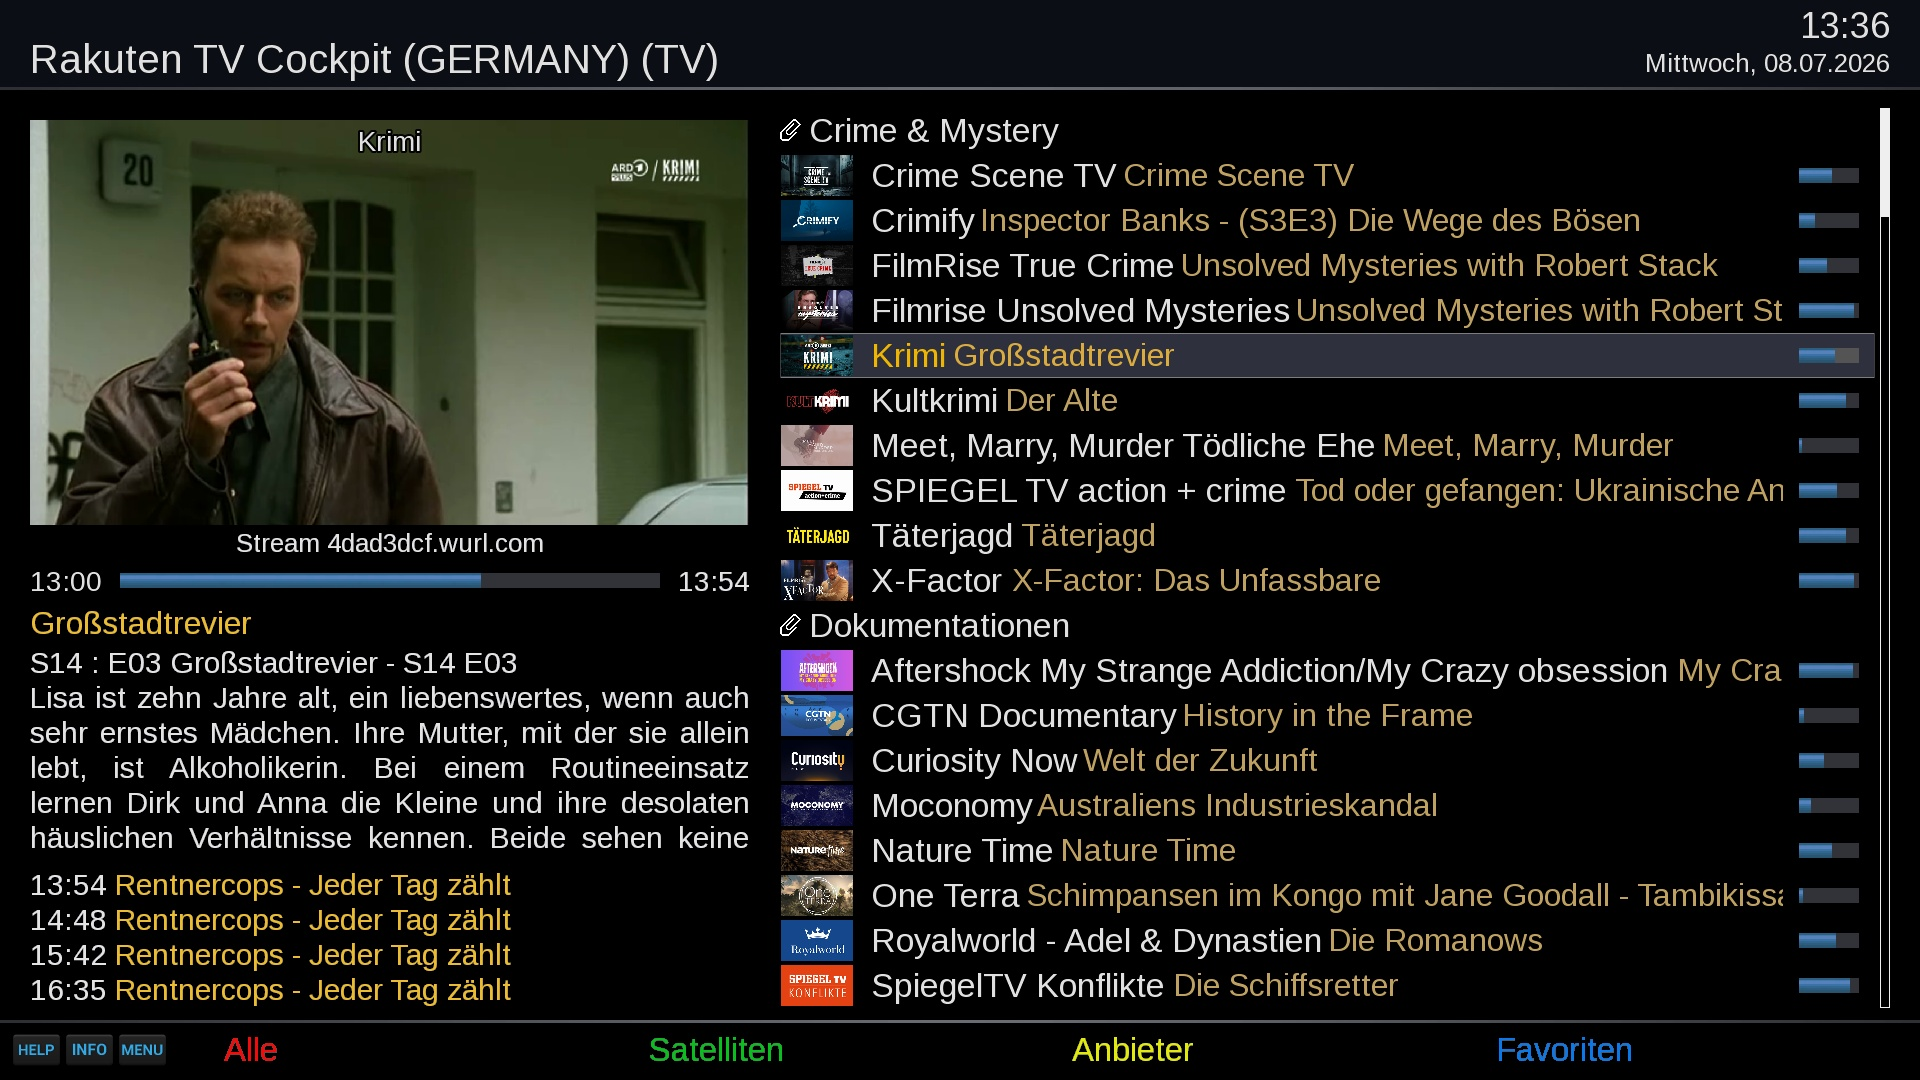
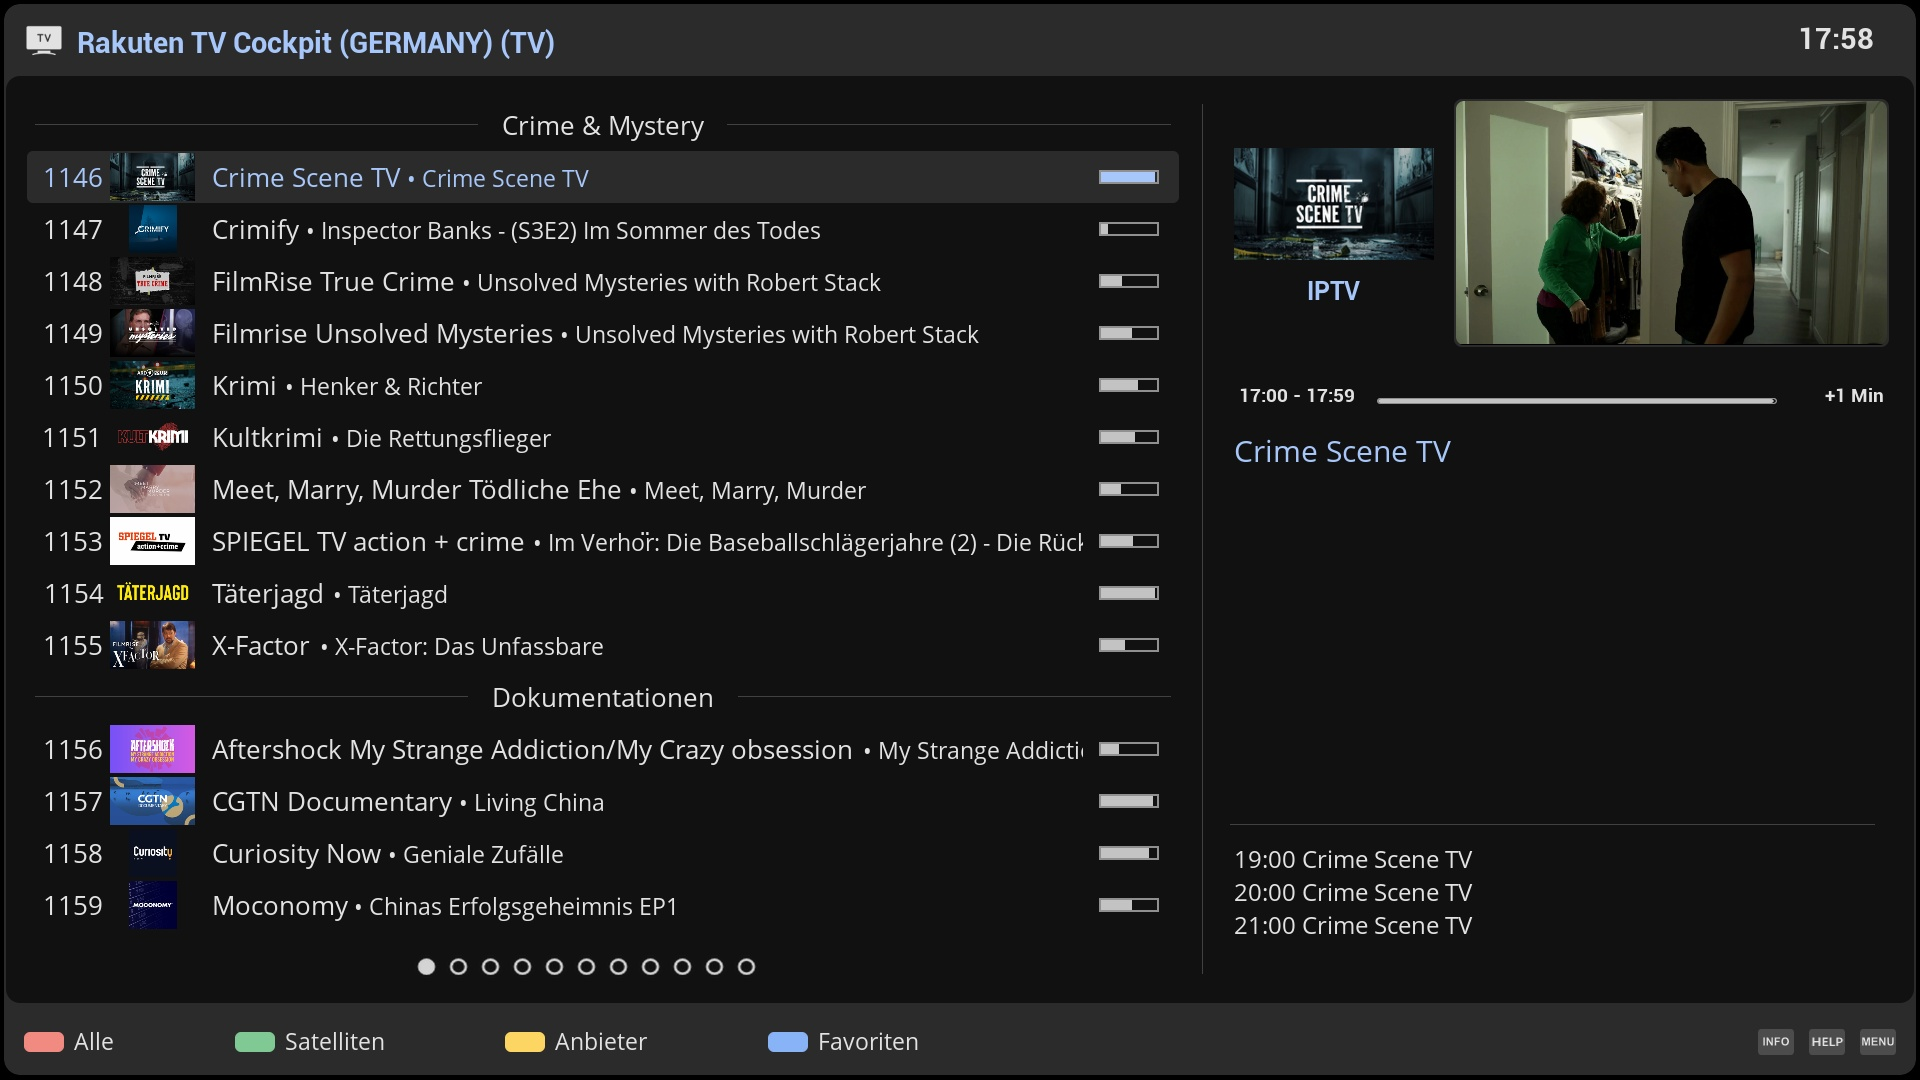
0.25.3

diff --git a/src/RakutenTVSetup.py b/src/RakutenTVSetup.py
@@ -37,29 +37,29 @@ class RakutenTVSetup(Setup):
 
     def createSetup(self):
         configList = []
-        configList.append((_("Region"), config.plugins.rakutentv.region, _("Select the region for the channel list.")))
+        configList.append((_("Region"), config.plugins.rakutentvcockpit.region, _("Select the region for the channel list.")))
         configList.append(("---",))
         for n in range(1, NUMBER_OF_LIVETV_BOUQUETS + 1):
-            if n == 1 or getattr(config.plugins.rakutentv, "live_tv_region" + str(n - 1)).value:
-                configList.append((_("Live-TV bouquet %s") % n, getattr(config.plugins.rakutentv, "live_tv_region" + str(n)), _("Region for which Live-TV bouquet %s will be created.") % n))
+            if n == 1 or getattr(config.plugins.rakutentvcockpit, "live_tv_region" + str(n - 1)).value:
+                configList.append((_("Live-TV bouquet %s") % n, getattr(config.plugins.rakutentvcockpit, "live_tv_region" + str(n)), _("Region for which Live-TV bouquet %s will be created.") % n))
         configList.append(("---",))
-        configList.append((_("Picon type"), config.plugins.rakutentv.picons, _("Using service name picons means they will continue to work even if the service reference changes.")))
-        configList.append((_("Automatic update check"), config.plugins.rakutentv.auto_update_check, _("Automatically check for a newer package update when the plugin GUI is opened.")))
-        configList.append((_("Data location"), config.plugins.rakutentv.config_folder, _("Location the configuration data are stored in.")))
-        configList.append((_("Stream proxy"), config.plugins.rakutentv.stream_proxy, _("Play and record through StreamProxyCockpit, which keeps the ad breaks of the streams from disturbing playback and recordings. Off: the bouquet holds the real stream addresses. The bouquet of each setting is kept, so changing it switches between them; one that doesn't exist yet, or is older than 5 hours, is generated.")))
+        configList.append((_("Picon type"), config.plugins.rakutentvcockpit.picons, _("Using service name picons means they will continue to work even if the service reference changes.")))
+        configList.append((_("Automatic update check"), config.plugins.rakutentvcockpit.auto_update_check, _("Automatically check for a newer package update when the plugin GUI is opened.")))
+        configList.append((_("Data location"), config.plugins.rakutentvcockpit.config_folder, _("Location the configuration data are stored in.")))
+        configList.append((_("Stream proxy"), config.plugins.rakutentvcockpit.stream_proxy, _("Play and record through StreamProxyCockpit, which keeps the ad breaks of the streams from disturbing playback and recordings. Off: the bouquet holds the real stream addresses. The bouquet of each setting is kept, so changing it switches between them; one that doesn't exist yet, or is older than 5 hours, is generated.")))
         configList.append((_("Log level"), config.plugins.rakutentvcockpit.debug_log_level, _("Select the level for debug logging.")))
         self["config"].list = configList
 
     def _locationConfigChanged(self):
-        if config.plugins.rakutentv.region.isChanged():
+        if config.plugins.rakutentvcockpit.region.isChanged():
             return True
-        return any(getattr(config.plugins.rakutentv, "live_tv_region" + str(n)).isChanged() for n in range(1, NUMBER_OF_LIVETV_BOUQUETS + 1))
+        return any(getattr(config.plugins.rakutentvcockpit, "live_tv_region" + str(n)).isChanged() for n in range(1, NUMBER_OF_LIVETV_BOUQUETS + 1))
 
     def keySave(self):
         if self._locationConfigChanged():
             # generates the bouquets for the current "Stream proxy" setting as well
             self.session.openWithCallback(lambda *_: Setup.keySave(self), RakutenTVDownload)
-        elif config.plugins.rakutentv.stream_proxy.isChanged():
+        elif config.plugins.rakutentvcockpit.stream_proxy.isChanged():
             # the locations without a stored bouquet are generated on top of the setup, like above
             missing = Silent.switchBouquetVariants()
             if missing:
@@ -70,7 +70,7 @@ class RakutenTVSetup(Setup):
             Setup.keySave(self)
 
     def updateYellowButton(self):
-        if os.path.isdir(PiconFetcher(config.plugins.rakutentv.picons).pluginPiconDir):
+        if os.path.isdir(PiconFetcher(config.plugins.rakutentvcockpit.picons).pluginPiconDir):
             self["key_yellow"].text = _("Remove picons")
         else:
             self["key_yellow"].text = ""
@@ -85,7 +85,7 @@ class RakutenTVSetup(Setup):
 
     def yellow(self):
         if self["key_yellow"].text:
-            PiconFetcher(config.plugins.rakutentv.picons).removeall()
+            PiconFetcher(config.plugins.rakutentvcockpit.picons).removeall()
             self.updateYellowButton()
 
     def blue(self):

diff --git a/src/RakutenTVRequest.py b/src/RakutenTVRequest.py
@@ -55,7 +55,7 @@ class RakutenTVRequest(FailureTracker):
 
     def getLiveChannels(self, region=None):
         """Fetch live channels from Rakuten TV API. Returns list of channel dicts."""
-        region = region or config.plugins.rakutentv.region.value
+        region = region or config.plugins.rakutentvcockpit.region.value
         now = time.time()
         if region in self._channels_cache and now - self._channels_cache_time.get(region, 0) < 4 * 3600:
             return self._channels_cache[region]
@@ -87,7 +87,7 @@ class RakutenTVRequest(FailureTracker):
 
     def getLiveChannelCategories(self, region=None):
         """Fetch channel categories from Rakuten TV API."""
-        region = region or config.plugins.rakutentv.region.value
+        region = region or config.plugins.rakutentvcockpit.region.value
         now = time.time()
         if region in self._categories_cache and now - self._categories_cache_time.get(region, 0) < 4 * 3600:
             return self._categories_cache[region]
@@ -109,7 +109,7 @@ class RakutenTVRequest(FailureTracker):
 
     def getLiveStreamURL(self, channel_id, language_id, region=None):
         """Get HLS stream URL for a live channel via the AVOD streaming endpoint."""
-        region = region or config.plugins.rakutentv.region.value
+        region = region or config.plugins.rakutentvcockpit.region.value
         params = self._get_base_params(region)
         params.update({
             "device_stream_audio_quality": "2.0",
@@ -147,7 +147,7 @@ class RakutenTVRequest(FailureTracker):
     def getChannels(self, region=None):
         """Get channels in a unified format (compatible with bouquet building).
         Returns list of channel dicts with _id, name, number, category, description, logo, stream_url, language_id."""
-        region = region or config.plugins.rakutentv.region.value
+        region = region or config.plugins.rakutentvcockpit.region.value
         raw_channels = self.getLiveChannels(region)
         categories_raw = self.getLiveChannelCategories(region)
 
@@ -202,7 +202,7 @@ class RakutenTVRequest(FailureTracker):
 
     def getLiveCategories(self, region=None):
         """Get live channels grouped by category for the plugin browser UI."""
-        region = region or config.plugins.rakutentv.region.value
+        region = region or config.plugins.rakutentvcockpit.region.value
         channels = self.getChannels(region)
         if not channels:
             return []
@@ -232,7 +232,7 @@ class RakutenTVRequest(FailureTracker):
 
     def buildStreamURL(self, channel_id, region=None):
         """Resolve the actual HLS stream URL for a channel."""
-        region = region or config.plugins.rakutentv.region.value
+        region = region or config.plugins.rakutentvcockpit.region.value
         channels = self.getChannels(region)
         for ch in channels:
             if ch["_id"] == channel_id:
@@ -244,7 +244,7 @@ class RakutenTVRequest(FailureTracker):
 
         The real stream address is not looked up here but by the proxy, on one of its own threads, the first time
         the channel is used (and again when it no longer works): this runs on the main thread while Enigma2 zaps."""
-        region = region or config.plugins.rakutentv.region.value
+        region = region or config.plugins.rakutentvcockpit.region.value
         return StreamProxy.registerChannel(self.SCHEME, channel_id, url_refresher=lambda: self.buildStreamURL(channel_id, region),
                                            refresh_on_failure=True)
 
@@ -289,7 +289,7 @@ class RakutenTVRequest(FailureTracker):
     def getEPG(self, region=None, hours=48):
         """Fetch EPG data from the Rakuten TV API and return XMLTV XML bytes.
         Fetches in 24-hour windows to avoid 503 errors on large regions."""
-        region = region or config.plugins.rakutentv.region.value
+        region = region or config.plugins.rakutentvcockpit.region.value
         now = datetime.now(timezone.utc).replace(minute=0, second=0, microsecond=0)
         end = now + timedelta(hours=hours)
 

diff --git a/src/ConfigInit.py b/src/ConfigInit.py
@@ -1,9 +1,10 @@
 # Copyright (C) 2026 by xcentaurix
 # License: GNU General Public License v3.0
 
-from Components.config import ConfigDirectory, ConfigSelection, ConfigSubsection, ConfigYesNo, config
+from Components.config import ConfigDirectory, ConfigSelection, ConfigYesNo, config
 
 from . import _
+from . import Debug  # noqa: F401, pylint: disable=unused-import
 from .Variables import NUMBER_OF_LIVETV_BOUQUETS
 from .CockpitTVConfig import setupLocationSlots
 
@@ -87,17 +88,22 @@ TSIDS = {cc: f"{i:X}" for i, cc in enumerate(REGION_NAMES, 0x200)}
 
 # --- Config subsection ---------------------------------------------------
 
-config.plugins.rakutentv = ConfigSubsection()
-config.plugins.rakutentv.region = ConfigSelection(default="de", choices=list(REGION_NAMES.items()))
-config.plugins.rakutentv.picons = ConfigSelection(default="snp", choices=[("snp", _("service name")), ("srp", _("service reference")), ("", _("None"))])
-config.plugins.rakutentv.silentmode = ConfigSelection(default="yes", choices=[("yes", _("Yes")), ("no", _("No"))])
-config.plugins.rakutentv.auto_update_check = ConfigSelection(default="yes", choices=[("yes", _("Yes")), ("no", _("No"))])
+# Debug creates config.plugins.rakutentvcockpit (with debug_log_level): the settings below join that subsection, it
+# must not be created again here.
+# The settings used to be config.plugins.rakutentv: take over what is stored there and drop it, so it isn't saved again.
+if oldValues := config.plugins.content.stored_values.pop("rakutentv", None):
+    for key, value in oldValues.items():
+        config.plugins.rakutentvcockpit.content.stored_values.setdefault(key, value)
+config.plugins.rakutentvcockpit.region = ConfigSelection(default="de", choices=list(REGION_NAMES.items()))
+config.plugins.rakutentvcockpit.picons = ConfigSelection(default="snp", choices=[("snp", _("service name")), ("srp", _("service reference")), ("", _("None"))])
+config.plugins.rakutentvcockpit.silentmode = ConfigSelection(default="yes", choices=[("yes", _("Yes")), ("no", _("No"))])
+config.plugins.rakutentvcockpit.auto_update_check = ConfigSelection(default="yes", choices=[("yes", _("Yes")), ("no", _("No"))])
 # Read by PRSCockpitPlayer (CockpitPlayer); not offered in the setup screen.
-config.plugins.rakutentv.movie_resume_at_last_pos = ConfigYesNo(default=False)
-config.plugins.rakutentv.movie_start_position = ConfigSelection(default="beginning", choices=[("beginning", _("beginning"))])
-config.plugins.rakutentv.config_folder = ConfigDirectory(default="/etc/enigma2")
-config.plugins.rakutentv.stream_proxy = ConfigYesNo(default=False)
+config.plugins.rakutentvcockpit.movie_resume_at_last_pos = ConfigYesNo(default=False)
+config.plugins.rakutentvcockpit.movie_start_position = ConfigSelection(default="beginning", choices=[("beginning", _("beginning"))])
+config.plugins.rakutentvcockpit.config_folder = ConfigDirectory(default="/etc/enigma2")
+config.plugins.rakutentvcockpit.stream_proxy = ConfigYesNo(default=False)
 
 # --- Live-TV region config items -----------------------------------------
 
-getselectedregions = setupLocationSlots(config.plugins.rakutentv, "live_tv_region", REGION_NAMES, NUMBER_OF_LIVETV_BOUQUETS, _("None"), first_default="de")
+getselectedregions = setupLocationSlots(config.plugins.rakutentvcockpit, "live_tv_region", REGION_NAMES, NUMBER_OF_LIVETV_BOUQUETS, _("None"), first_default="de")

diff --git a/src/RakutenTVCockpit.py b/src/RakutenTVCockpit.py
@@ -35,7 +35,7 @@ from .PRSServiceCenter import ServiceCenter
 from .PRSServiceRef import liveReference
 from .Debug import logger
 
-_utils = PRSUtils(config.plugins.rakutentv)
+_utils = PRSUtils(config.plugins.rakutentvcockpit)
 downloadPoster = _utils.downloadPoster
 resumePointsInstance = _utils.resumePoints
 
@@ -112,7 +112,7 @@ class RakutenTVCockpit(Screen, HelpableScreen):
         self.onLayoutFinish.append(self.getCategories)
 
     def initialise(self):
-        self.region = config.plugins.rakutentv.region.value
+        self.region = config.plugins.rakutentvcockpit.region.value
         self.films = []
         self.menu = []
         self.history = []
@@ -295,7 +295,7 @@ class RakutenTVCockpit(Screen, HelpableScreen):
             if "m3u8" in url.lower():
                 self.service_center.setMovie(name, description, duration)
                 self.last_service = self.session.nav.getCurrentlyPlayingServiceOrGroup()
-                self.session.openWithCallback(self._playerClosed, PRSCockpitPlayer, reference, sid, resumePointsInstance, self.service_center, config.plugins.rakutentv, live=True)
+                self.session.openWithCallback(self._playerClosed, PRSCockpitPlayer, reference, sid, resumePointsInstance, self.service_center, config.plugins.rakutentvcockpit, live=True)
 
     def _playerClosed(self, *_args):
         if self.last_service:
@@ -303,7 +303,7 @@ class RakutenTVCockpit(Screen, HelpableScreen):
         self["feedlist"].refresh()  # pick up the resume point saved on leaving the player
 
     def green(self):
-        locations = [x for x in getselectedregions() if x] or [config.plugins.rakutentv.region.value]
+        locations = [x for x in getselectedregions() if x] or [config.plugins.rakutentvcockpit.region.value]
         if len(locations) <= 1:
             self.session.openWithCallback(self.endupdateLive, RakutenTVDownload)
             return
@@ -368,7 +368,7 @@ class RakutenTVCockpit(Screen, HelpableScreen):
 
     def loadSetup(self):
         def loadSetupCallback(_result=None):
-            if config.plugins.rakutentv.region.value != self.region:
+            if config.plugins.rakutentvcockpit.region.value != self.region:
                 self.initialise()
                 self.getCategories()
         self.session.openWithCallback(loadSetupCallback, RakutenTVSetup)

diff --git a/src/PRSCockpitPlayer.py b/src/PRSCockpitPlayer.py
@@ -11,7 +11,7 @@ than in a .cuts file next to the (non-existent) local file.
 VOD (PlutoTVCockpit) - the movie infobar, position/length of the stream:
 
     self.session.openWithCallback(self._playerClosed, PRSCockpitPlayer, reference, sid,
-                                  resumePointsInstance, self.service_center, config.plugins.plutotv)
+                                  resumePointsInstance, self.service_center, config.plugins.plutotvcockpit)
 
 Live channels (Rakuten TV, Samsung TV Plus), live=True - the infobar shows the
 current EPG event of the channel (name, progress, elapsed/remaining, end time)
@@ -20,7 +20,7 @@ and CockpitLivePlayerSummary skin screens), so the channel must be played with
 the service reference its bouquet/EPG import uses (see PRSServiceRef):
 
     self.session.openWithCallback(self._playerClosed, PRSCockpitPlayer, reference, sid,
-                                  resumePointsInstance, self.service_center, config.plugins.rakutentv, live=True)
+                                  resumePointsInstance, self.service_center, config.plugins.rakutentvcockpit, live=True)
 
 *config_plugins_plugin* is the plugin's own config subsection; it must define
 movie_resume_at_last_pos and movie_start_position (read by CockpitPlayer).

diff --git a/src/RakutenTVDownload.py b/src/RakutenTVDownload.py
@@ -67,19 +67,19 @@ class RakutenTVDownloadBase(TVDownloadBase):
     def _proxyEnabled(self):
         """True if the bouquet gets the lazy addresses StreamProxyCockpit resolves (setting "Stream proxy"), False for
         the addresses of the streams themselves."""
-        return config.plugins.rakutentv.stream_proxy.value
+        return config.plugins.rakutentvcockpit.stream_proxy.value
 
     def _selectedLocations(self):
         return getselectedregions()
 
     def _defaultLocation(self):
-        return config.plugins.rakutentv.region.value
+        return config.plugins.rakutentvcockpit.region.value
 
     def _picons_config(self):
-        return config.plugins.rakutentv.picons
+        return config.plugins.rakutentvcockpit.picons
 
     def _configFolder(self):
-        return config.plugins.rakutentv.config_folder.value
+        return config.plugins.rakutentvcockpit.config_folder.value
 
     def _fetchChannels(self, cc):
         return rakutenRequest.getChannels(cc)

diff --git a/src/PluginUpgrade.py b/src/PluginUpgrade.py
@@ -184,7 +184,7 @@ def checkPluginUpdateAndOpen(session, package_name, plugin_name, main_screen, au
     for a newer opkg version and prompt to install it if one is found.
 
     *auto_update_config* is a ConfigYesNo-style value (e.g.
-    config.plugins.plutotv.auto_update_check) - the check itself is skipped
+    config.plugins.plutotvcockpit.auto_update_check) - the check itself is skipped
     entirely unless its value is "yes"; main_screen still opens either way.
     *also_check* is a sequence of (package name, display name) of further packages the plugin depends on (for
     the TV plugins StreamProxyCockpit): they are checked in the same background job, with the same single

diff --git a/src/PiconFetcher.py b/src/PiconFetcher.py
@@ -35,7 +35,7 @@ _PICON_HEIGHT = 132
 class PiconFetcher:
     def __init__(self, picons_config, parent=None):
         """
-        picons_config  : config element for the picons setting, e.g. config.plugins.rakutentv.picons
+        picons_config  : config element for the picons setting, e.g. config.plugins.rakutentvcockpit.picons
         parent         : optional parent widget that receives updateProgressBar(counter) callbacks
         """
         self.plugin_name = PLUGIN

diff --git a/src/plugin.py b/src/plugin.py
@@ -35,7 +35,7 @@ def Download_RakutenTV(session, **_kwargs):
 def system(session, **_kwargs):
     checkPluginUpdateAndOpen(
         session, "enigma2-plugin-extensions-rakutentvcockpit", "RakutenTVCockpit",
-        RakutenTVCockpit, config.plugins.rakutentv.auto_update_check,
+        RakutenTVCockpit, config.plugins.rakutentvcockpit.auto_update_check,
         also_check=(("enigma2-plugin-systemplugins-streamproxycockpit", "StreamProxyCockpit"),))
 
 

diff --git a/src/Version.py b/src/Version.py
@@ -4,6 +4,6 @@
 
 PLUGIN = "RakutenTVCockpit"
 ID = "RTV"
-VERSION = "0.25.0"
+VERSION = "0.25.3"
 COPYRIGHT = "(C) 2026 by xcentaurix"
 LICENSE = "This program is free software: you can redistribute it and/or modify it under the terms of the GNU General Public License as published by the Free Software Foundation, either version 3 of the License, or (at your option) any later version."

diff --git a/src/PRSUtils.py b/src/PRSUtils.py
@@ -9,7 +9,7 @@ Instantiate once per plugin (module level):
     from Components.config import config
     from .PRSUtils import PRSUtils
 
-    _utils = PRSUtils(config.plugins.rakutentv)
+    _utils = PRSUtils(config.plugins.rakutentvcockpit)
     downloadPoster = _utils.downloadPoster
     resumePointsInstance = _utils.resumePoints
 

diff --git a/README.md b/README.md
@@ -7,7 +7,7 @@ Open-Enigma2 plugin for Live-TV streams
 
 ## Configuration
 
-![Screenshot](r2.jpg)
+![Screenshot](r3.jpg)
 
 ## Video-On-Demand
 Rakuten TV offers Video-On-Demand but requires Widevine for playback
